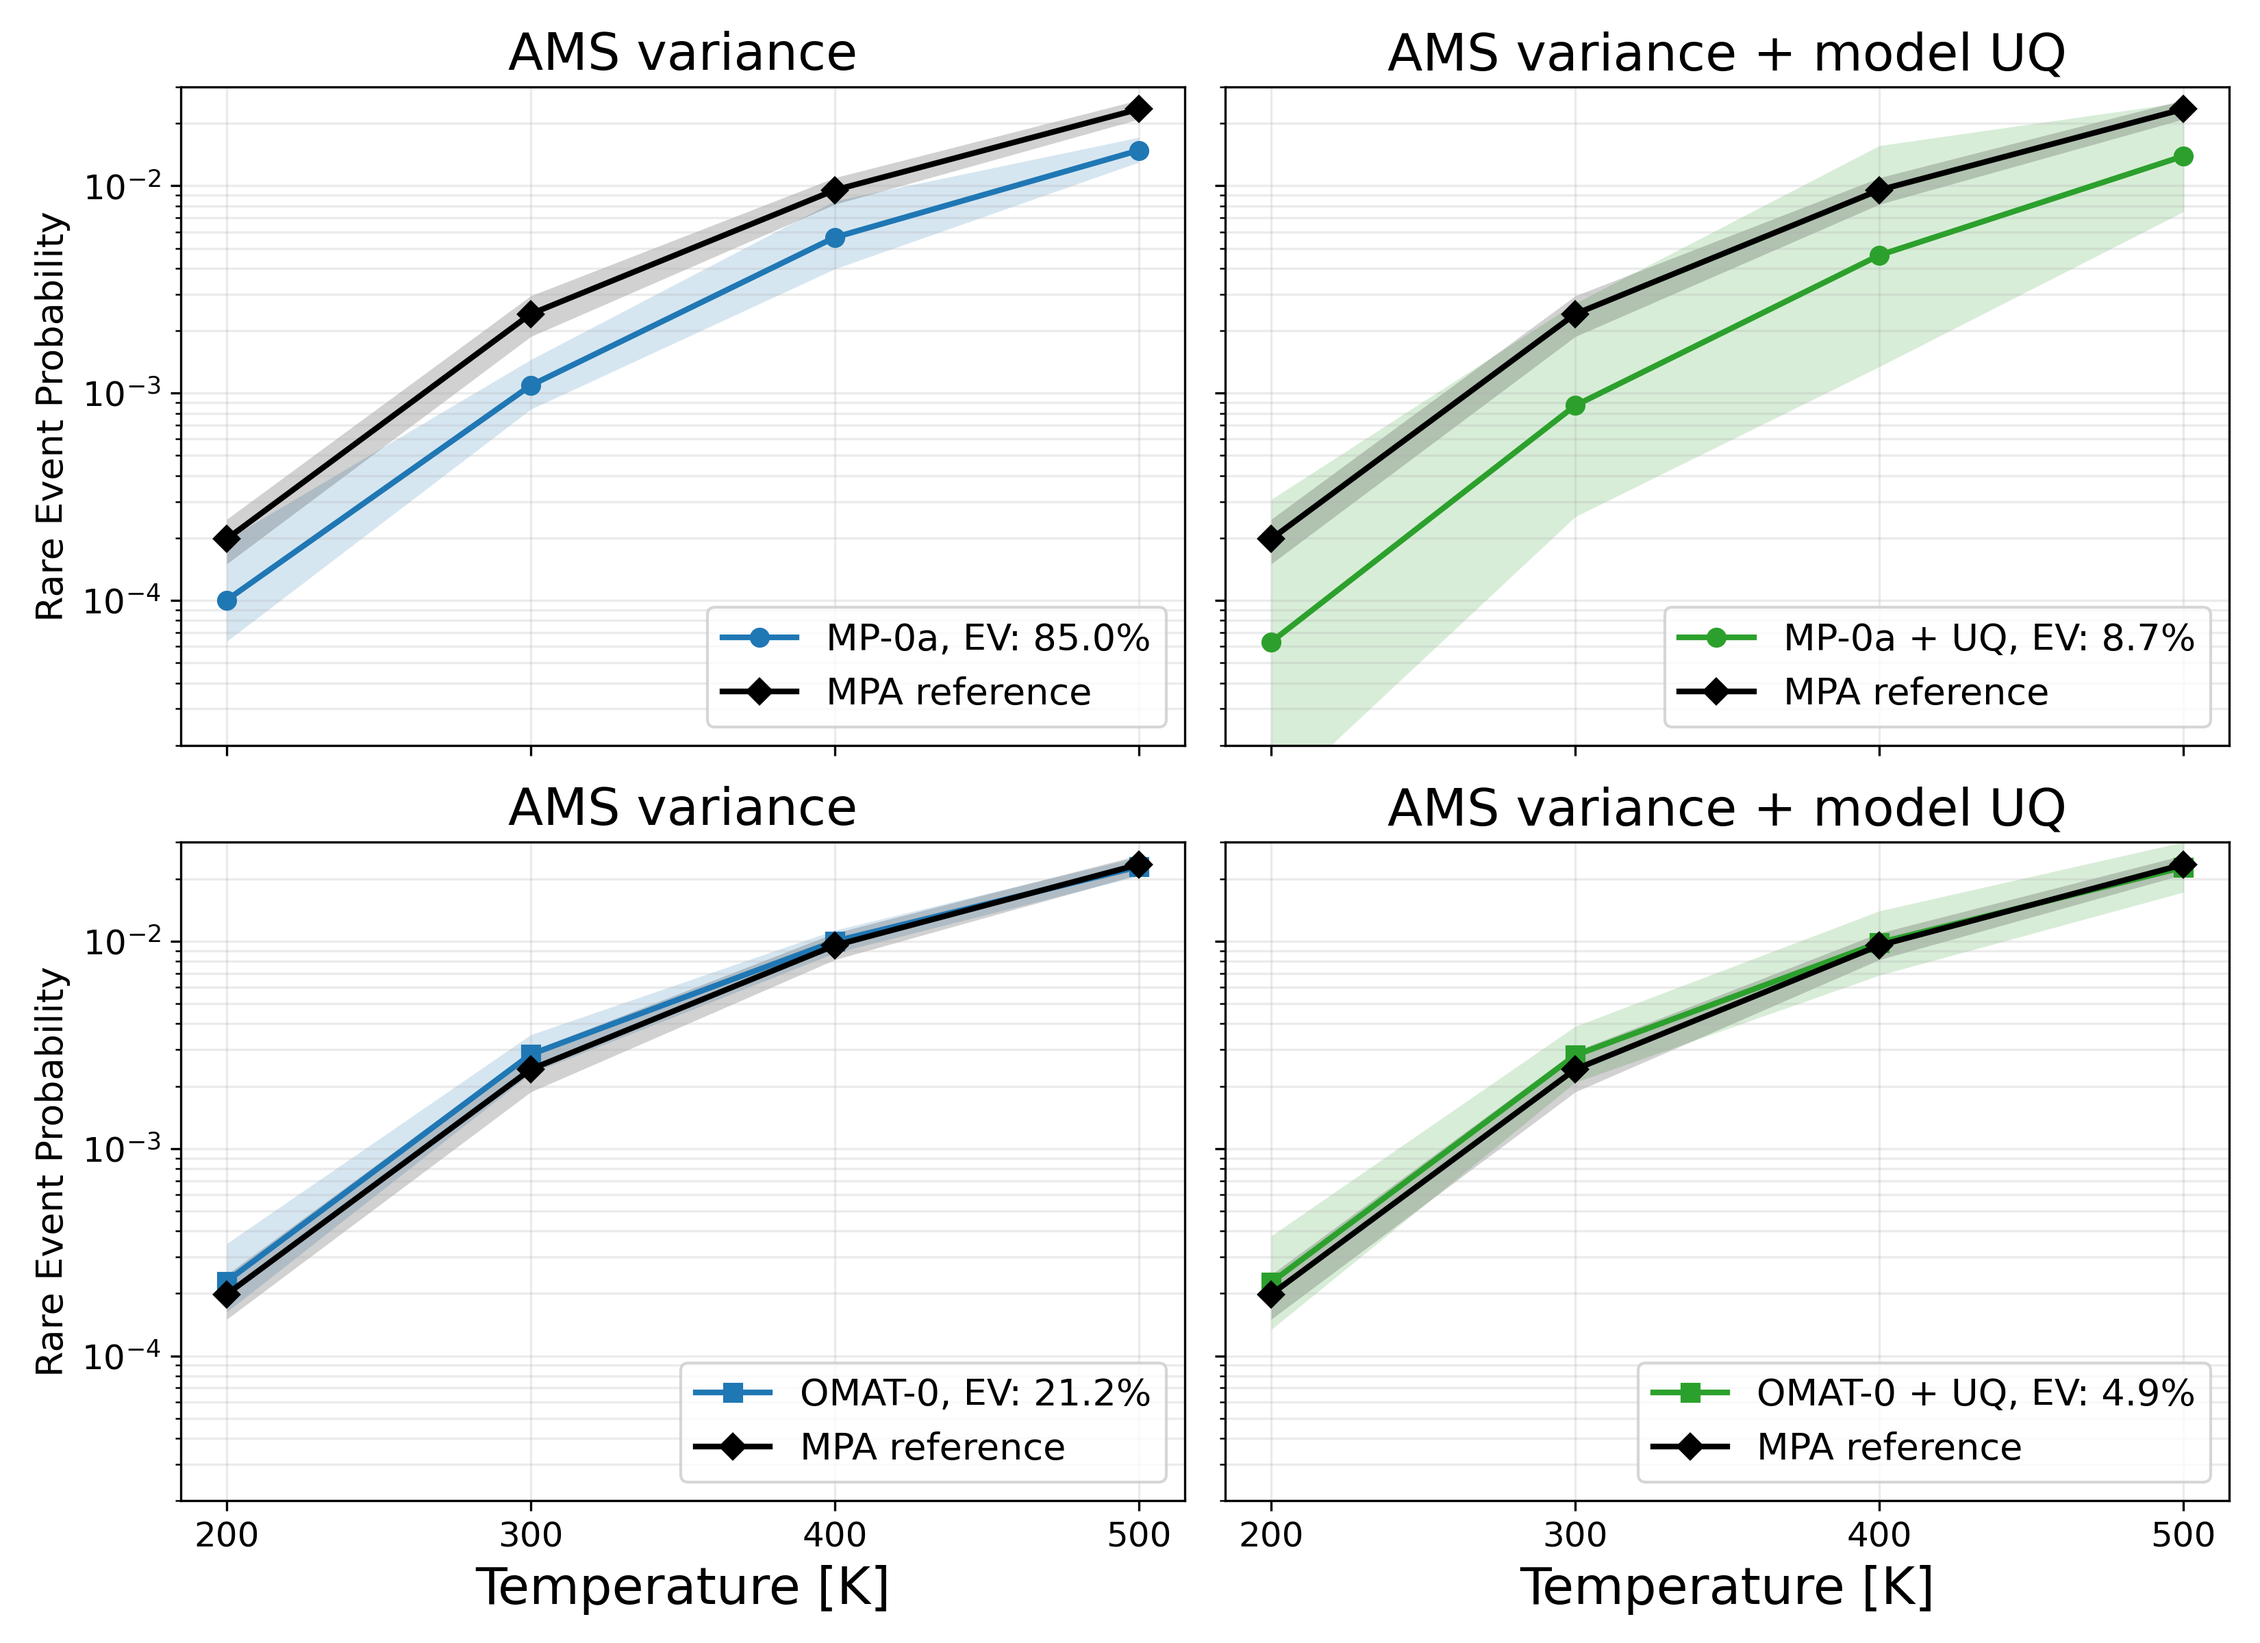
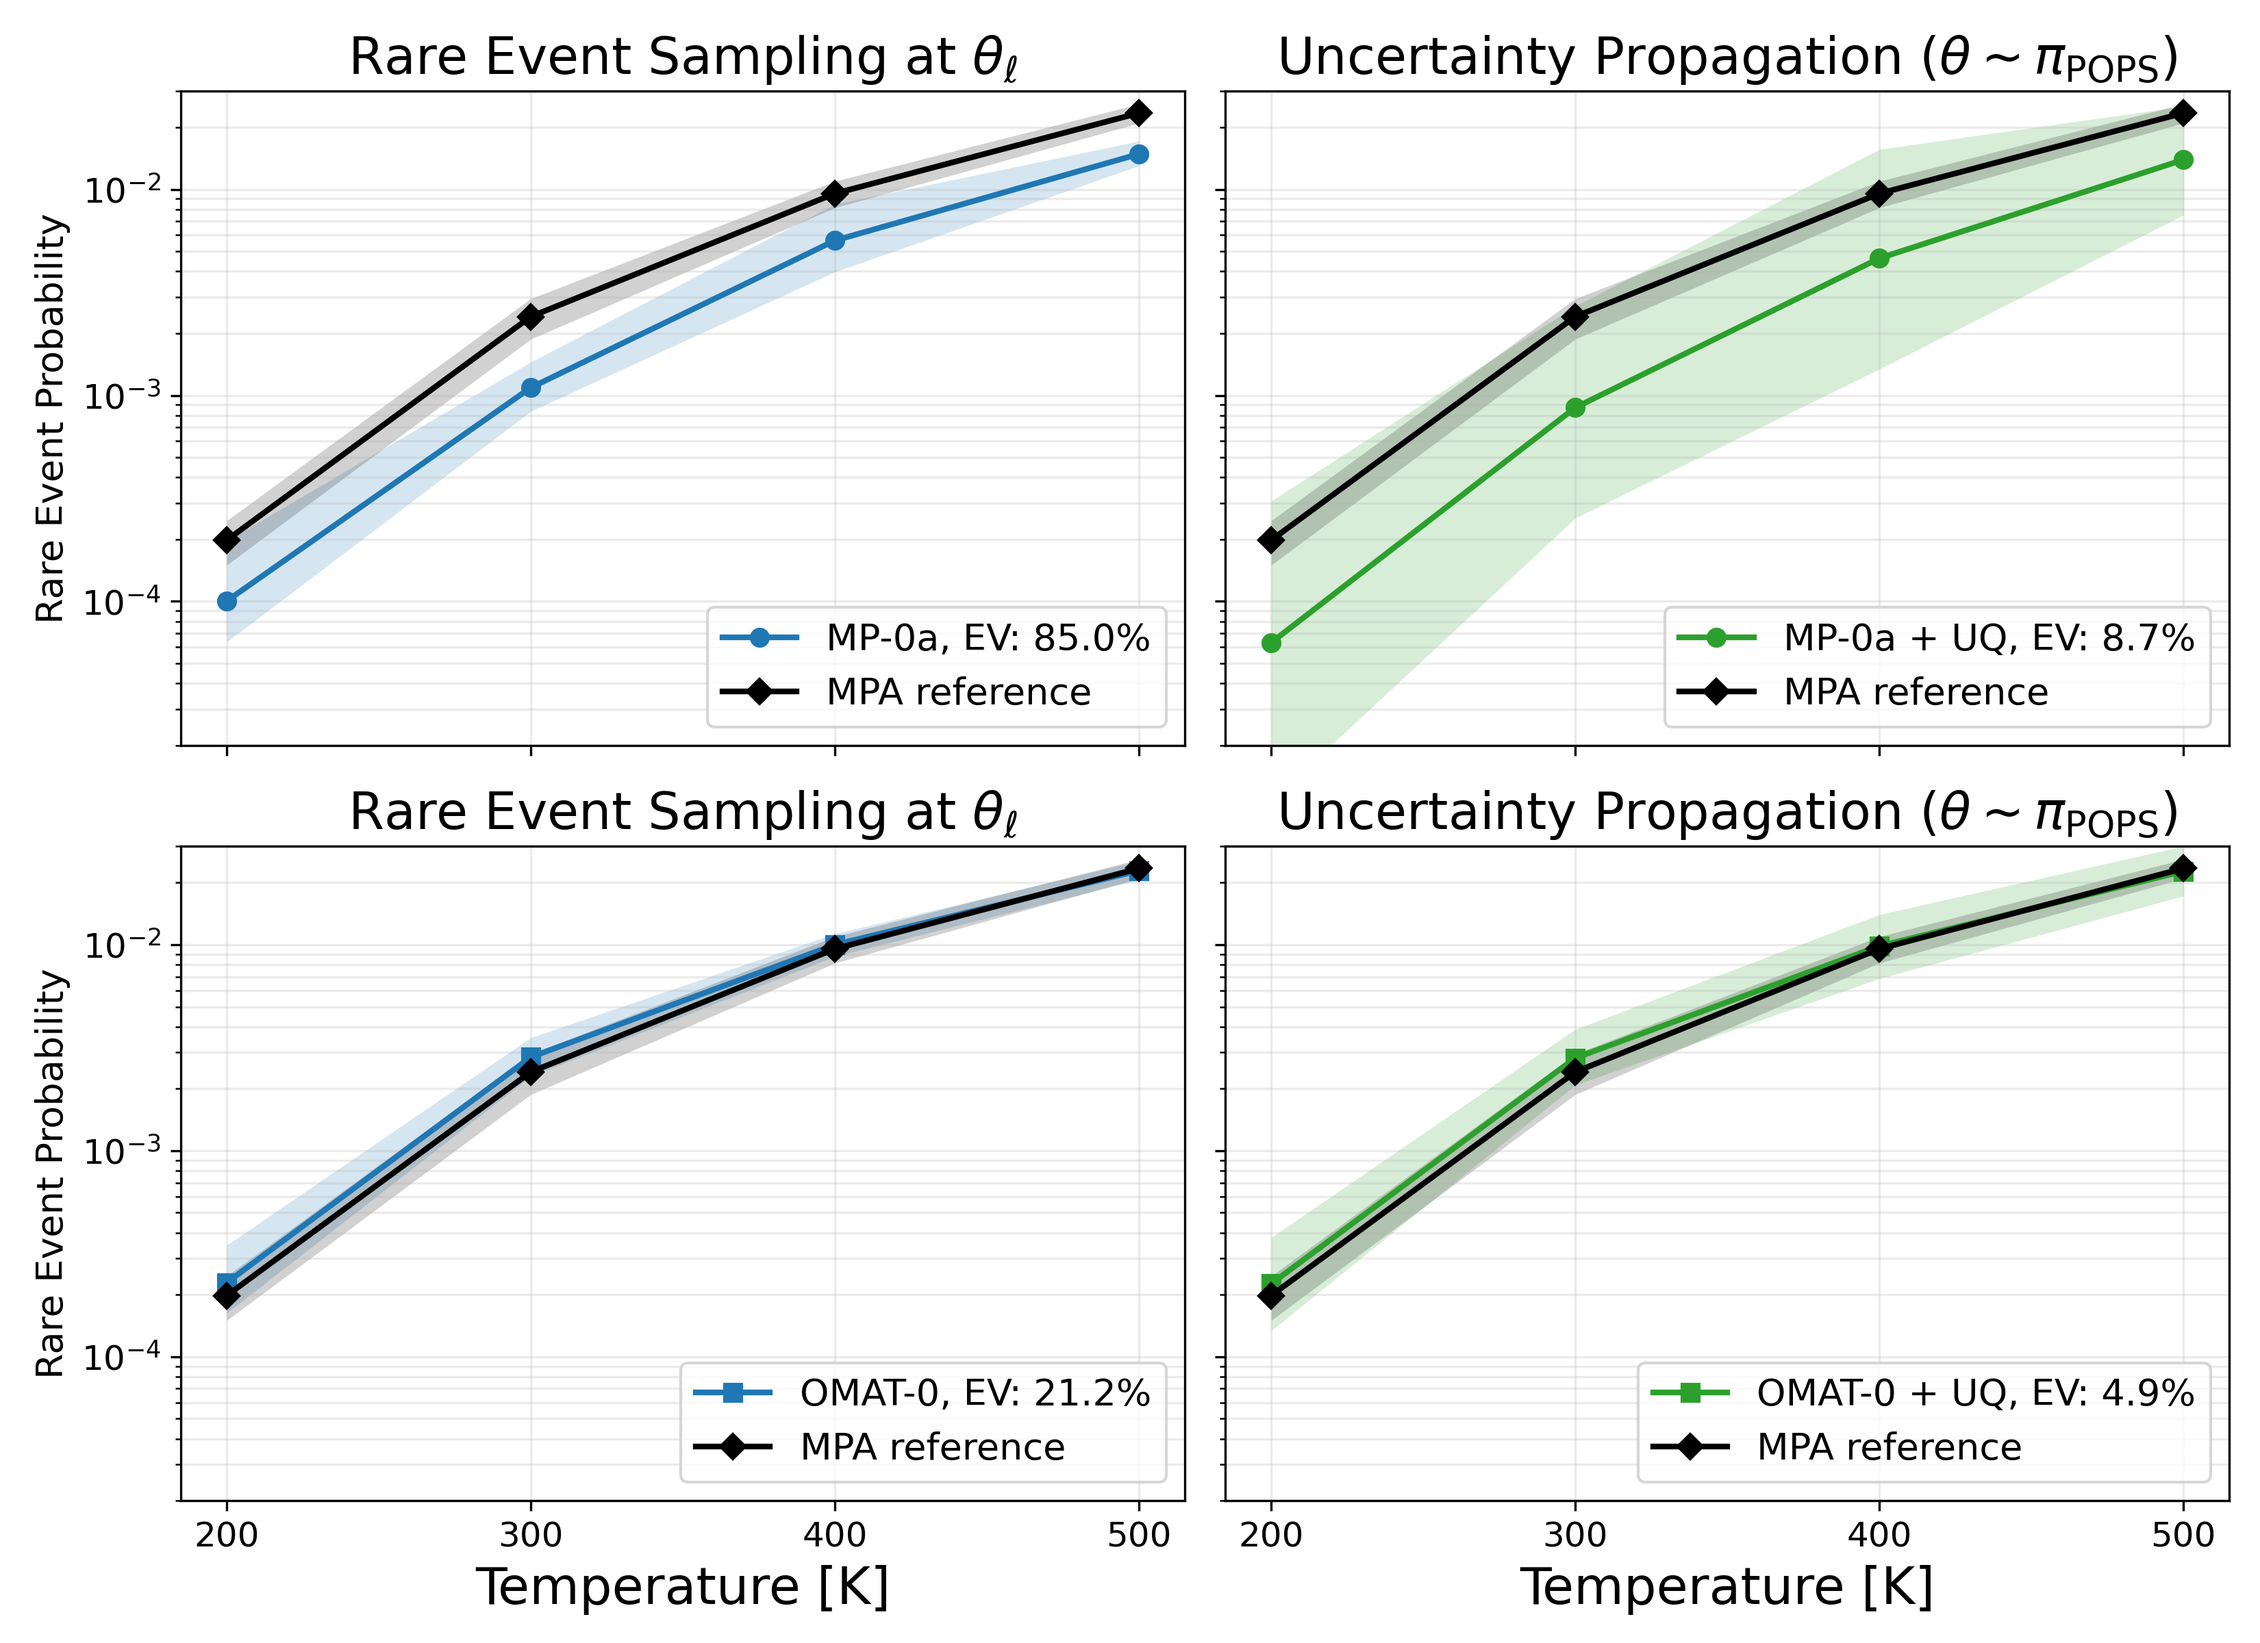
Match temperature plot titles to reference figure

diff --git a/scripts/AMS_butane/plots/plot_temperature.py b/scripts/AMS_butane/plots/plot_temperature.py
@@ -317,11 +317,11 @@ def plot_temperature_axes(axes, models=MODELS):
     labels = {"mp0a": "MP-0a", "omat0": "OMAT-0"}
     markers = {"mp0a": "o", "omat0": "s"}
     uq_columns = (
-        (uq_ams_only, coverage_ams_only, "AMS variance"),
+        (uq_ams_only, coverage_ams_only, r"Rare Event Sampling at $\theta_\ell$"),
         (
             uq_total,
             coverage_total,
-            "AMS variance + model UQ"
+            r"Uncertainty Propagation ($\theta \sim \pi_{\mathrm{POPS}}$)"
             + {
                 "pops_95": " (POPS 95%)",
                 "pops_minmax": " (POPS min–max)",
@@ -447,8 +447,12 @@ def plot_rate_temperature_axes(axes):
     labels = {"mp0a": "MP-0a", "omat0": "OMAT-0"}
     markers = {"mp0a": "o", "omat0": "s"}
     uq_columns = (
-        (uq_ams_only, coverage_ams_only, "AMS variance"),
-        (uq_total, coverage_total, "AMS variance + model UQ"),
+        (uq_ams_only, coverage_ams_only, r"Rare Event Sampling at $\theta_\ell$"),
+        (
+            uq_total,
+            coverage_total,
+            r"Uncertainty Propagation ($\theta \sim \pi_{\mathrm{POPS}}$)",
+        ),
     )
     for row, model in enumerate(MODELS):
         for col, (summaries, coverage, uq_title) in enumerate(uq_columns):
